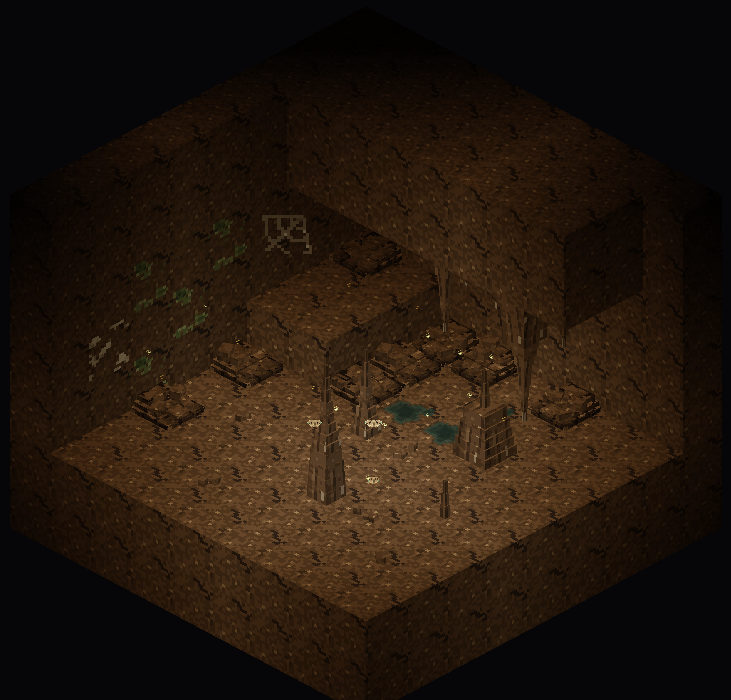
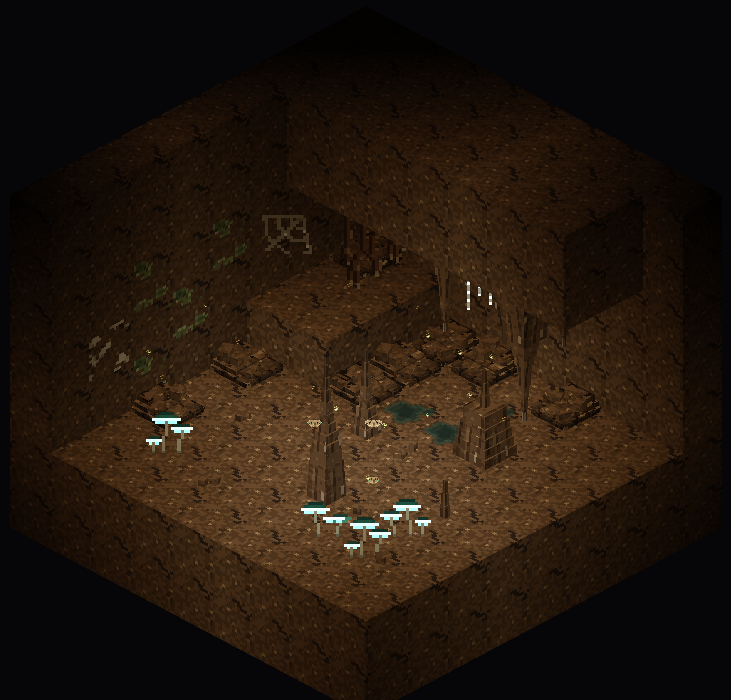
The Living Deep P2 style sheet: the two regions' own pieces close up and in their dioramas (https://claude.ai/artifact/RDhd1JDBSDt8s31LFiB2Wu v3)

diff --git a/docs/caves/style.html b/docs/caves/style.html
@@ -172,21 +172,41 @@ figure { margin: 0; position: relative; min-width: 0; }
 <div class="wide" style="padding-left:max(16px, env(safe-area-inset-left, 0px));padding-right:max(16px, env(safe-area-inset-right, 0px));display:flex;flex-direction:column;gap:26px;margin-top:18px">
   <div class="scene">
     <div class="pair">
-      <figure><img class="px" src="style/scene_rootways.png" alt="A Rootways cave corner in brown rootstone by torchlight, pale moths near the torch, green-tinted puddle"><span class="tagline">The Rootways · torch</span></figure>
+      <figure><img class="px" src="style/scene_rootways.png" alt="A Rootways cave corner in brown rootstone by torchlight: teal glowcaps on the floor, root curtains and glow-worm threads under the shelf, pale moths, green-tinted puddle"><span class="tagline">The Rootways · torch</span></figure>
       <figure><img class="px" src="style/scene_rootways_flat.png" alt="The Rootways corner in flat light"><span class="tagline">The Rootways · flat light</span></figure>
     </div>
     <p><b>The Rootways</b> (the Shallows under forests, taiga and jungle): brown rootstone threaded with old roots,
-    green-grey water, spores and pollen drifting, and pale dusk moths that come to your torch. Root curtains, root
-    arches and teal glowcaps join in P2.</p>
+    green-grey water, spores and pollen drifting, and pale dusk moths that come to your torch. Root curtains hang
+    through the roof, teal glowcaps grow in patches on the floor (a faint light you see down the gallery), and glow-worm
+    threads hang in clusters, shining in the dark. You hear the old roots creak overhead.</p>
   </div>
   <div class="scene">
     <div class="pair">
-      <figure><img class="px" src="style/scene_ochre_deep.png" alt="An Ochre Deep cave corner in banded red-orange rock, warm dust, an orange puddle, rust beetles"><span class="tagline">The Ochre Deep · torch</span></figure>
+      <figure><img class="px" src="style/scene_ochre_deep.png" alt="An Ochre Deep cave corner in banded red-orange rock: ember lichen glowing on the left wall, rust on the walls, warm dust, an orange puddle, rust beetles"><span class="tagline">The Ochre Deep · torch</span></figure>
       <figure><img class="px" src="style/scene_ochre_deep_flat.png" alt="The Ochre Deep corner in flat light"><span class="tagline">The Ochre Deep · flat light</span></figure>
     </div>
-    <p><b>The Ochre Deep</b> (the Middle Dark under temperate land): banded red-orange rock, orange drip pools, warm dust
-    in the air, rust beetles on the walls and floor. Its terraces, rust flowstone and the faint glow of ember lichen
-    join in P2.</p>
+    <p><b>The Ochre Deep</b> (the Middle Dark under temperate land): banded red-orange rock in terraces, orange drip
+    pools, warm dust in the air, rust beetles on the walls and floor. Rust crust and rust flowstone take the place of
+    the plain caves' crust and streaks, and ember lichen glows faintly like a dying fire. You hear the rock ticking as
+    it settles, a chorus of chime crickets off in the dark, and a low warm hum.</p>
+  </div>
+</div>
+
+<div class="wrap" style="padding-block:0">
+  <p style="margin-top:22px"><b>The two regions' own pieces</b>, close up. The ores that live in a region wear its rock
+  (coal and copper in rootstone, iron in ochre: dark hematite with iron's peach rim); any other ore keeps a pocket of
+  the stone it grew in.</p>
+  <div class="grid">
+    <div class="sw"><img class="px" src="style/p2_rootstone_coal_ore.png" alt="Coal ore in rootstone, tiled"><span><b>coal ore</b> · rootstone</span></div>
+    <div class="sw"><img class="px" src="style/p2_rootstone_copper_ore.png" alt="Copper ore in rootstone, tiled"><span><b>copper ore</b> · rootstone</span></div>
+    <div class="sw"><img class="px" src="style/p2_ochre_iron_ore.png" alt="Iron ore in ochre stone, tiled"><span><b>iron ore</b> · ochre</span></div>
+    <div class="sw"><img class="px" src="style/p2_glowcap_0.png" alt="A cluster of two teal glowcaps"><span><b>glowcaps</b> (rims and gills glow)</span></div>
+    <div class="sw"><img class="px" src="style/p2_glowcap_1.png" alt="A cluster of three teal glowcaps"><span><b>glowcaps</b> · another cluster</span></div>
+    <div class="sw"><img class="px" src="style/p2_root_curtain.png" alt="Old roots hanging, a strand of the curtain"><span><b>root curtain</b></span></div>
+    <div class="sw"><img class="px" src="style/p2_root_curtain_tip.png" alt="The frayed tip of a root curtain"><span><b>root curtain</b> · its tip</span></div>
+    <div class="sw"><img class="px" src="style/p2_rust_crust.png" alt="Rust crust on ochre stone"><span><b>rust crust</b></span></div>
+    <div class="sw"><img class="px" src="style/p2_rust_flowstone.png" alt="Rust flowstone on ochre stone"><span><b>rust flowstone</b></span></div>
+    <div class="sw"><img class="px" src="style/p2_ember_lichen.png" alt="Ember lichen on ochre stone"><span><b>ember lichen</b> (embers glow)</span></div>
   </div>
 </div>
 

diff --git a/tools/art/cave_diorama.py b/tools/art/cave_diorama.py
@@ -115,7 +115,7 @@ class Scene:
                 while t.startswith("#"):
                     t = tex[t[1:]]
                 self.add([(x + p[0] / 16, y + p[1] / 16, z + p[2] / 16) for p in pts], f.get("uv", [0, 0, 16, 16]), t, SHADE[d], n,
-                         tint if "tintindex" in f else None, 0, both=len(e["faces"]) == 1)
+                         tint if "tintindex" in f else None, e.get("light_emission", 0) / 15, both=len(e["faces"]) == 1)
 
     def overlay(self, tex, x, y, z, wall, glow=0.0):
         """A wall overlay in the air block (x, y, z), flat on its wall side ('north' = the wall at z - 1 ...)."""
@@ -332,14 +332,21 @@ def corner(rock, lichen, water, extras=None):
         s.model(f"{rock}_pebbles_{v}", x, 1, z, rot=90 * ((x + 2 * z) % 4))
     for x, z in ((3, 2), (4, 2), (4, 1)):
         s.model("puddle", x, 1, z, tint=water)
-    # the walls' overlays
+    # the walls' overlays (the Ochre Deep's are its own: rust for crust, rust flowstone for streaks, ember in the lichen)
+    ochre = rock == "ochre"
     for y in (1, 2, 3):
         s.overlay(f"awaken:block/caves/lichen_{lichen}", 0, y, 4 + (y % 2), "west")
-    s.overlay(f"awaken:block/caves/lichen_{lichen}", 0, 3, 3, "west")
-    s.overlay("awaken:block/caves/mineral_crust", 0, 2, 6, "west")
+    if ochre:
+        s.overlay("awaken:block/caves/ember_lichen", 0, 3, 3, "west")
+        s.overlay("awaken:block/caves/ember_lichen_glow", 0, 3, 3, "west", glow=0.6)
+        s.overlay("awaken:block/caves/ember_lichen", 0, 2, 3, "west")
+        s.overlay("awaken:block/caves/ember_lichen_glow", 0, 2, 3, "west", glow=0.6)
+    else:
+        s.overlay(f"awaken:block/caves/lichen_{lichen}", 0, 3, 3, "west")
+    s.overlay("awaken:block/caves/rust_crust" if ochre else "awaken:block/caves/mineral_crust", 0, 2, 6, "west")
     for x in (2, 4):
-        s.overlay("awaken:block/caves/wet_streaks", x, 2, 0, "north")
-        s.overlay("awaken:block/caves/wet_streaks", x, 3, 0, "north")
+        s.overlay("awaken:block/caves/rust_flowstone" if ochre else "awaken:block/caves/wet_streaks", x, 2, 0, "north")
+        s.overlay("awaken:block/caves/rust_flowstone" if ochre else "awaken:block/caves/wet_streaks", x, 3, 0, "north")
     s.model("dusty_web", 0, 3, 2)
     s.light(4.5, 1.5, 4.5)                         # your torch
     if extras:
@@ -359,6 +366,13 @@ def particles(s, name, count, seed, box=(0.5, 1.2, 0.5, 6.5, 3.8, 6.5), size=0.1
 
 
 def rootways(s):
+    # P2: root curtains through the shelf's underside, glowcaps on the floor, glow-worm threads under the shelf
+    s.model("root_curtain", 1, 3, 1)
+    s.model("root_curtain_tip", 1, 2, 1)
+    s.model("root_curtain_tip", 2, 3, 1)
+    for x, z, v in ((5, 6, 0), (6, 5, 1), (1, 6, 2), (6, 6, 2)):
+        s.model(f"glowcap_{v}", x, 1, z)
+    s.sprite(underlife_cell(0, 1), 4.4, 3.55, 1.5, 0.8, glow=0.9)
     particles(s, "spore", 14, 1, glow=0.35)
     particles(s, "pollen", 8, 2)
     for i, (x, y, z) in enumerate(((5.2, 2.6, 5.0), (6.1, 2.2, 5.9), (4.9, 3.0, 6.2))):
@@ -366,6 +380,7 @@ def rootways(s):
 
 
 def ochre(s):
+    s.overlay("awaken:block/caves/rust_crust", 1, 2, 0, "north")
     particles(s, "warm_dust", 22, 3, glow=0.25)
     beetle = underlife_cell(2, 1)
     s.sprite(beetle, 0.15, 1.6, 4.6, 0.32)
@@ -438,6 +453,17 @@ def sheet(out):
     for rock in ("stone", "deepslate", "tuff", "rootstone", "ochre"):
         for piece in ("rubble", "formation", "formation_tip"):
             save(tile(f"awaken:block/caves/{rock}_{piece}", 2, 5), f"skin_{rock}_{piece}")
+    # P2: the regions' own pieces, each on its rock
+    for name in ("rootstone_coal_ore", "rootstone_copper_ore", "ochre_iron_ore"):
+        save(tile(f"awaken:block/caves/{name}", 2, 5), f"p2_{name}")
+    for name, rock in (("glowcap_0", "rootstone"), ("glowcap_1", "rootstone"), ("root_curtain", "rootstone"), ("root_curtain_tip", "rootstone"),
+                       ("rust_crust", "ochre_stone"), ("rust_flowstone", "ochre_stone"), ("ember_lichen", "ochre_stone")):
+        t = Image.fromarray(texture(f"awaken:block/caves/{name}").astype(np.uint8), "RGBA")
+        b = Image.fromarray(texture(f"awaken:block/caves/{rock}").astype(np.uint8), "RGBA")
+        if name.startswith(("glowcap", "root")):
+            b = Image.new("RGBA", (16, 16), (40, 36, 32, 255))
+        b.alpha_composite(t)
+        save(b.resize((160, 160), Image.NEAREST), f"p2_{name}")
     for name in ("lichen_shallows", "lichen_middle", "lichen_deep", "mineral_crust", "wet_streaks", "dusty_web", "puddle"):
         t = Image.fromarray(texture(f"awaken:block/caves/{name}").astype(np.uint8), "RGBA")
         bg = Image.fromarray(texture("minecraft:block/stone").astype(np.uint8), "RGBA")
